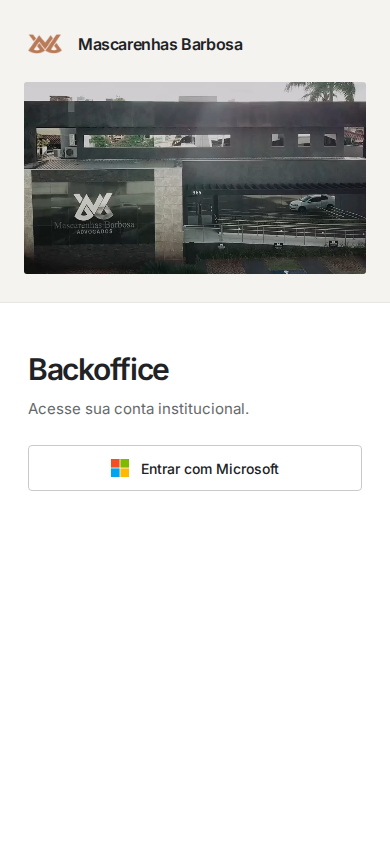
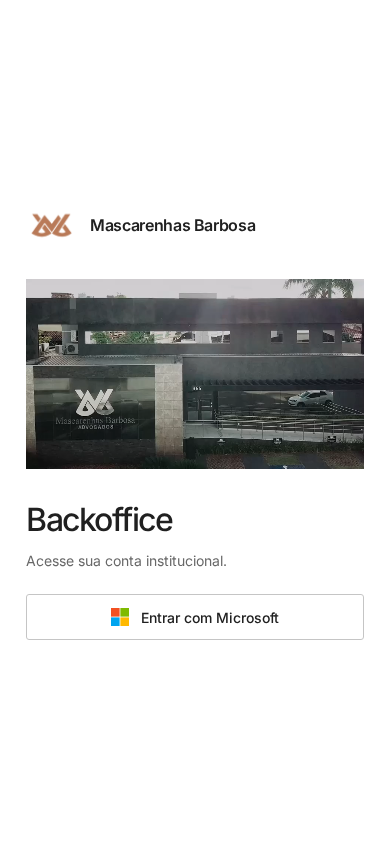
design: unify Backoffice login into one composition

diff --git a/prototypes/landing.html b/prototypes/landing.html
@@ -9,47 +9,42 @@
 <link rel="preconnect" href="https://fonts.gstatic.com" crossorigin>
 <link href="https://fonts.googleapis.com/css2?family=Inter:wght@400;500;600&display=swap" rel="stylesheet">
 <style>
-:root{color-scheme:light;--ink:#202224;--muted:#66696b;--line:#dededb;--paper:#fff;--institution:#f4f3f0;--brand:#b97a58}
+:root{color-scheme:light;--ink:#202020;--muted:#686868;--paper:#fff;--copper:#b97a58}
 *{box-sizing:border-box}
-html,body{margin:0;min-height:100%;font-family:Inter,system-ui,-apple-system,BlinkMacSystemFont,"Segoe UI",sans-serif;color:var(--ink);background:var(--paper);-webkit-font-smoothing:antialiased}
-.layout{min-height:100vh;min-height:100svh;display:grid;grid-template-columns:58% 42%}
-.institution{display:grid;align-content:center;min-width:0;padding:56px clamp(36px,4.5vw,80px);background:var(--institution);border-right:1px solid #e8e6e2}
-.institution-inner{width:100%;max-width:910px;margin-inline:auto}
-.brand{display:flex;align-items:center;gap:15px;margin:0 0 30px;min-height:46px}
-.brand img{width:52px;height:46px;object-fit:contain;display:block}
-.brand-name{font-size:18px;letter-spacing:-.4px;font-weight:600;line-height:1.3}
-.film{margin:0;width:100%;aspect-ratio:910/512;background:#e6e3df;overflow:hidden;border-radius:3px}
+html,body{margin:0;min-height:100%;background:var(--paper);color:var(--ink);font-family:Inter,Arial,sans-serif;-webkit-font-smoothing:antialiased}
+.page{min-height:100vh;min-height:100svh;display:grid;place-items:center;padding:64px 56px}
+.composition{width:100%;max-width:1248px;display:grid;grid-template-columns:minmax(0,1fr) minmax(280px,336px);gap:clamp(56px,7vw,104px);align-items:center}
+.film{width:100%;aspect-ratio:910/512;margin:0;background:#e9e9e7;overflow:hidden}
 .film video{display:block;width:100%;height:100%;object-fit:contain}
-.access{min-width:0;display:grid;align-content:center;justify-items:center;padding:56px clamp(32px,4.5vw,72px)}
-.access-inner{width:100%;max-width:338px}
-h1{font-size:34px;line-height:1.2;letter-spacing:-1.3px;font-weight:600;margin:0 0 10px}
-.description{font-size:15px;color:var(--muted);line-height:1.6;margin:0 0 29px}
-.microsoft{display:flex;align-items:center;justify-content:center;gap:12px;width:100%;min-height:46px;padding:12px 16px;border:1px solid #c8cac9;border-radius:4px;background:var(--paper);font:inherit;font-size:14px;font-weight:500;color:var(--ink);cursor:pointer}
-.microsoft:hover{background:#f5f5f4;border-color:#999b9a}
-.microsoft:focus-visible{outline:2px solid #946044;outline-offset:3px}
+.access{min-width:0}
+.brand{display:flex;align-items:center;gap:13px;margin-bottom:46px}
+.brand img{display:block;width:51px;height:43px;object-fit:contain;flex:none}
+.brand-name{font-size:16px;font-weight:600;letter-spacing:-.35px;line-height:1.25}
+h1{font-size:36px;font-weight:500;line-height:1.2;letter-spacing:-1.5px;margin:0 0 10px}
+.description{font-size:14px;line-height:1.65;color:var(--muted);margin:0 0 27px}
+.microsoft{width:100%;min-height:46px;display:flex;align-items:center;justify-content:center;gap:12px;padding:12px 16px;border:1px solid #c5c5c5;border-radius:3px;background:white;color:var(--ink);font:500 14px Inter,Arial,sans-serif;cursor:pointer}
 .microsoft svg{width:18px;height:18px;flex:none}
+.microsoft:hover{background:#f6f6f6;border-color:#969696}
+.microsoft:focus-visible{outline:2px solid #946044;outline-offset:3px}
 .status{font-size:13px;color:var(--muted);line-height:1.5;margin:14px 0 0}.status[hidden]{display:none}
-@media(max-width:900px){.layout{grid-template-columns:55% 45%}.institution{padding:40px 28px}.access{padding:40px 28px}.brand{margin-bottom:24px}}
-@media(max-width:650px){.layout{grid-template-columns:1fr;grid-template-rows:auto 1fr}.institution{padding:26px 24px 28px;border-right:0;border-bottom:1px solid #e8e6e2}.brand{margin-bottom:20px;gap:12px;min-height:36px}.brand img{width:42px;height:36px}.brand-name{font-size:16px}.access{padding:48px 28px 58px;align-content:start}.access-inner{max-width:390px}h1{font-size:30px}.description{margin-bottom:24px}}
-@media(prefers-reduced-motion:reduce){.film video{display:none}.film{background:#e6e3df url('../assets/mascarenhas-login-poster.jpg') center/contain no-repeat}}
+@media(max-width:1024px){.page{padding:48px 36px}.composition{grid-template-columns:minmax(0,1fr) minmax(260px,300px);gap:48px}}
+@media(max-width:720px){.page{padding:36px 26px;place-items:center}.composition{max-width:440px;grid-template-columns:1fr;gap:32px}.access{display:contents}.brand{grid-row:1;margin:0}.film{grid-row:2}.credentials{grid-row:3}h1{font-size:32px}.description{margin-bottom:22px}}
+@media(prefers-reduced-motion:reduce){.film video{display:none}.film{background:#e9e9e7 url('../assets/mascarenhas-login-poster.jpg') center/contain no-repeat}}
 </style>
 </head>
 <body>
-<main class="layout">
-<section class="institution" aria-label="Mascarenhas Barbosa">
-<div class="institution-inner">
-<header class="brand"><img src="../favicon-copper.svg" alt=""><span class="brand-name">Mascarenhas Barbosa</span></header>
-<div class="film"><video autoplay muted loop playsinline preload="metadata" poster="../assets/mascarenhas-login-poster.jpg" aria-label="Vídeo institucional do Mascarenhas Barbosa"><source src="../assets/mascarenhas-login.mp4" type="video/mp4"></video></div>
-</div>
-</section>
+<main class="page">
+<div class="composition">
+<figure class="film"><video autoplay muted loop playsinline preload="metadata" poster="../assets/mascarenhas-login-poster.jpg" aria-label="Vídeo institucional do Mascarenhas Barbosa"><source src="../assets/mascarenhas-login.mp4" type="video/mp4"></video></figure>
 <section class="access" aria-labelledby="access-title">
-<div class="access-inner">
+<div class="brand"><img src="../favicon-copper.svg" alt=""><span class="brand-name">Mascarenhas Barbosa</span></div>
+<div class="credentials">
 <h1 id="access-title">Backoffice</h1>
 <p class="description">Acesse sua conta institucional.</p>
 <button type="button" class="microsoft" id="microsoft"><svg viewBox="0 0 23 23" aria-hidden="true"><rect width="11" height="11" fill="#f25022"/><rect x="12" width="11" height="11" fill="#7fba00"/><rect y="12" width="11" height="11" fill="#00a4ef"/><rect x="12" y="12" width="11" height="11" fill="#ffb900"/></svg>Entrar com Microsoft</button>
 <p class="status" id="status" role="status" hidden>Protótipo visual. A autenticação não está conectada neste ambiente.</p>
+</div></section>
 </div>
-</section>
 </main>
 <script>
 const video=document.querySelector('video');
